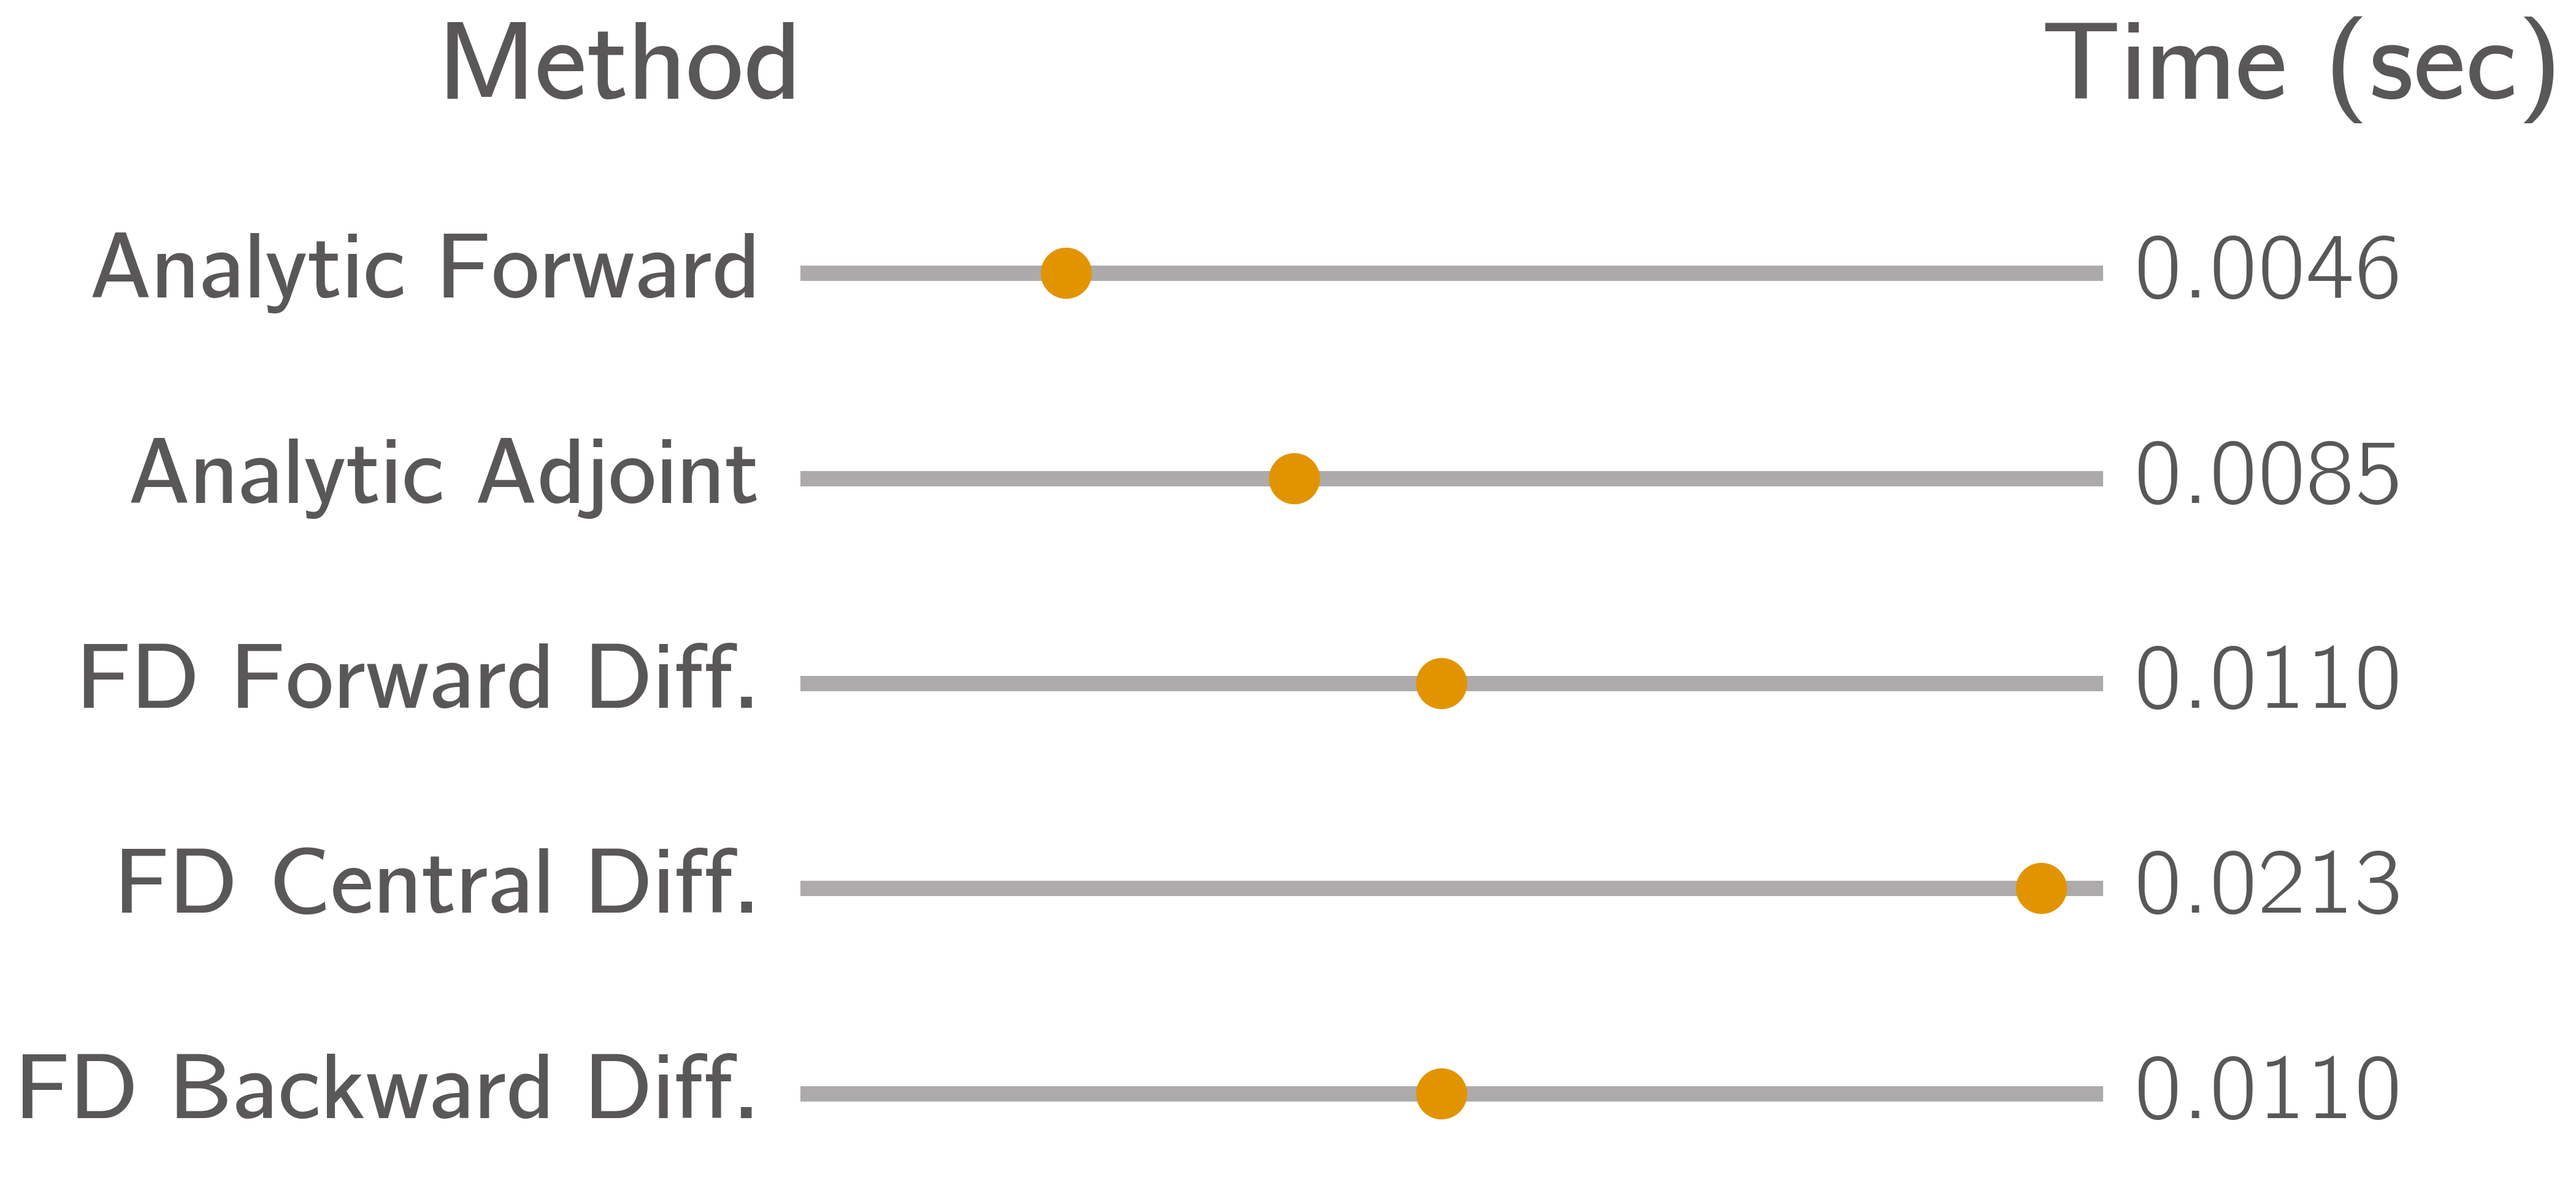
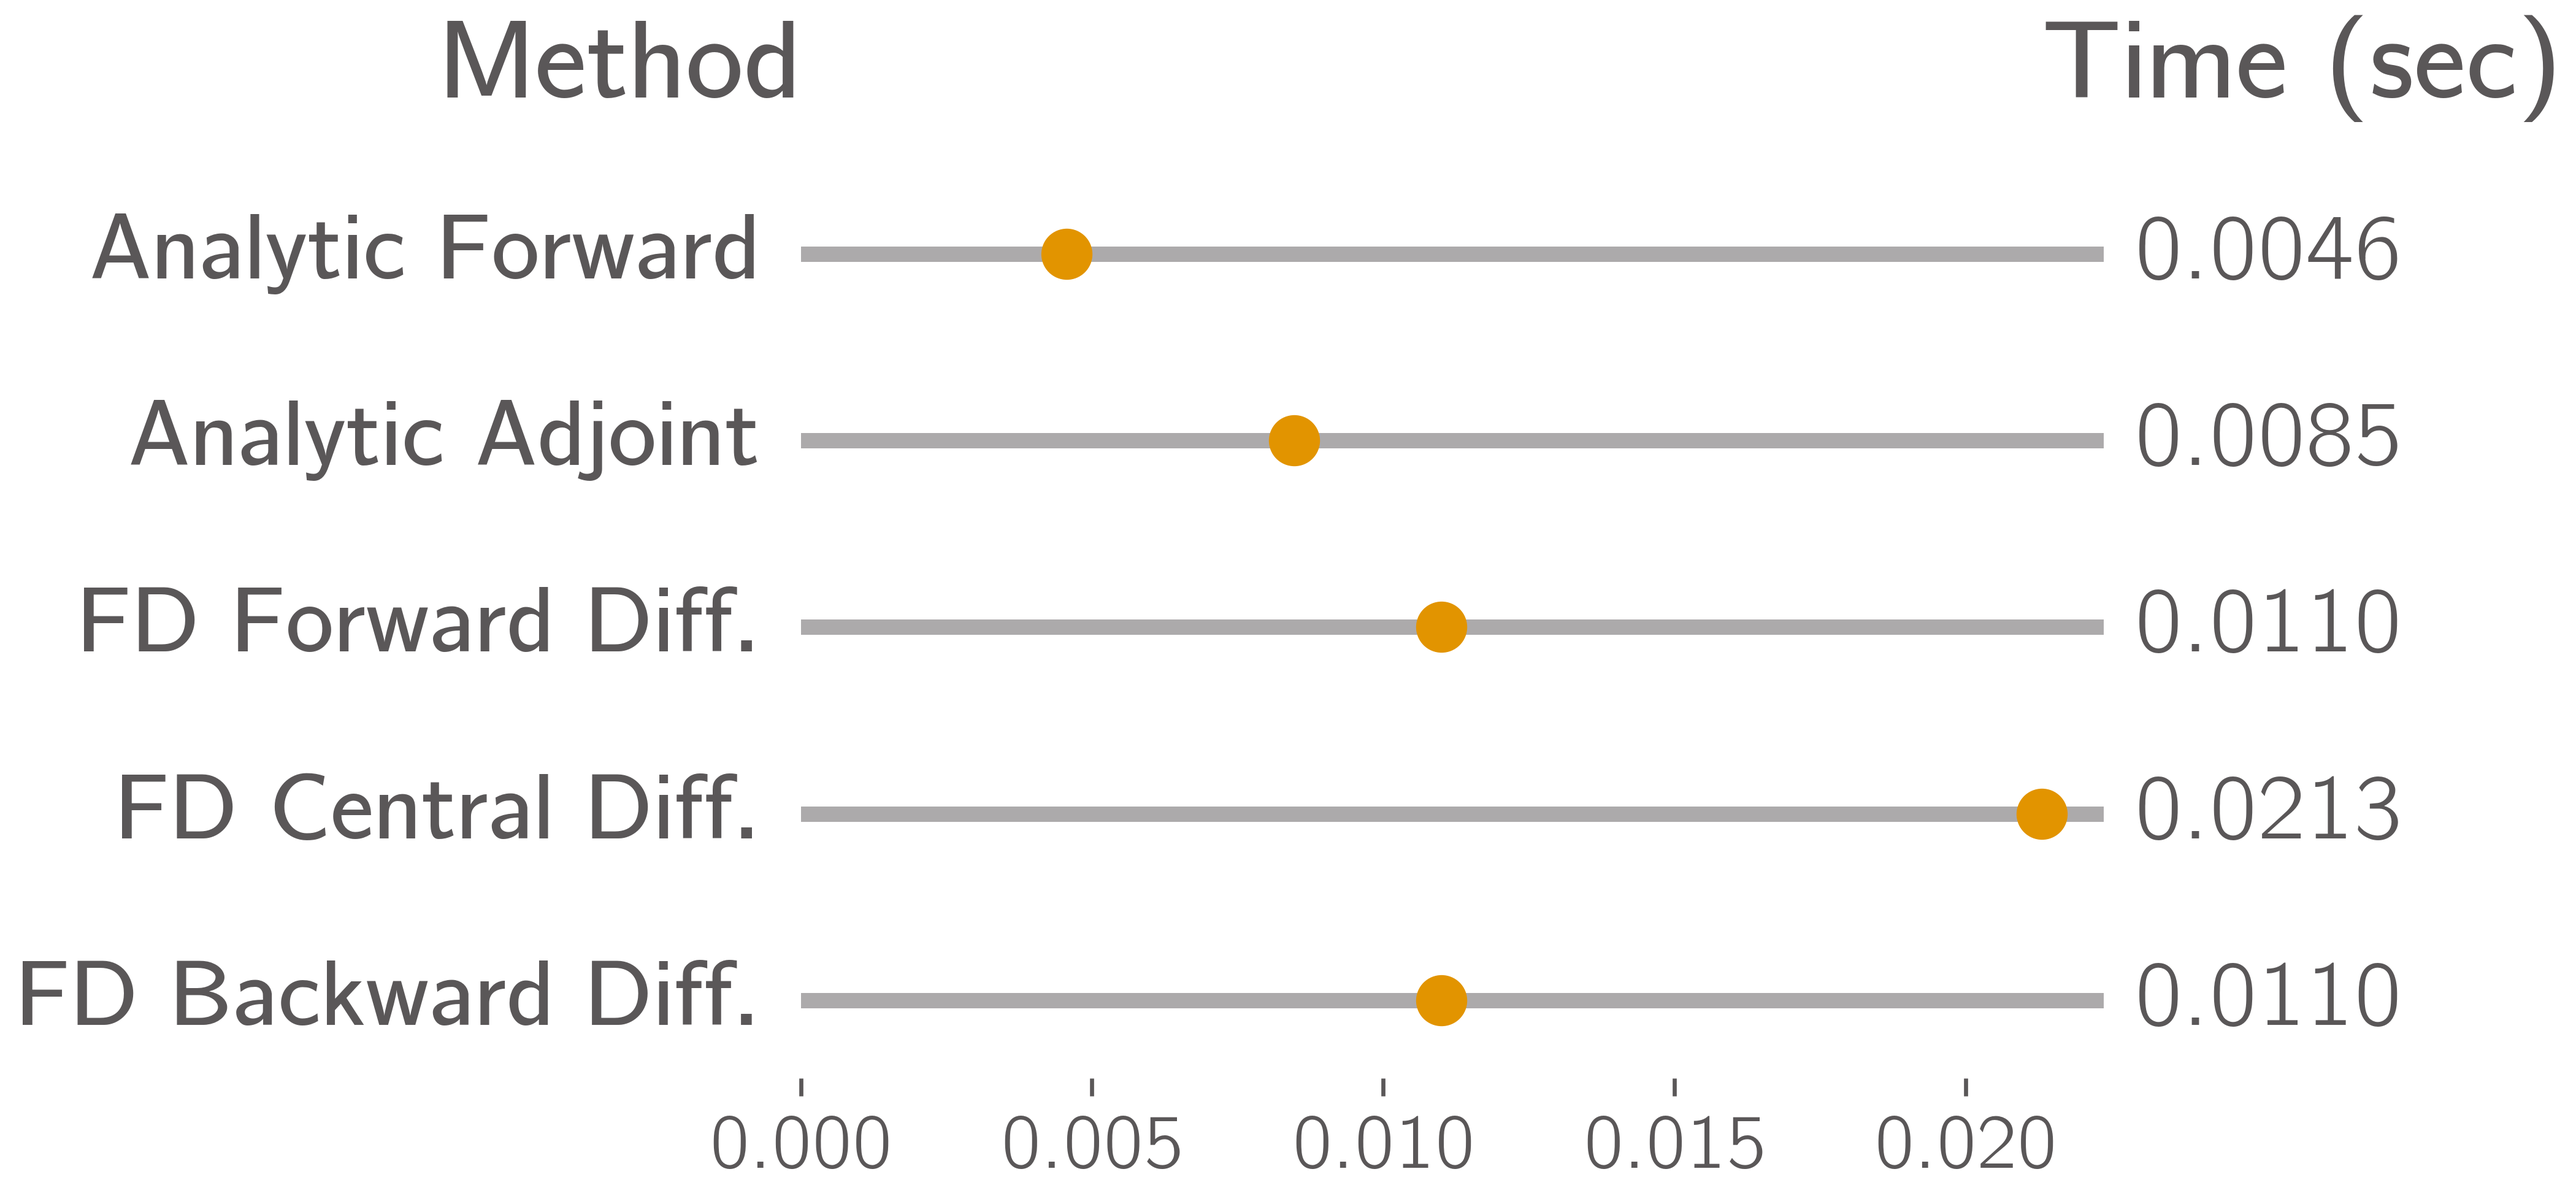
`horiz_bar` bugfixes (#49)
* Fix horiz_bar crash with a single bar

plt.subplots(1, 1) returns a single Axes rather than an ndarray, so
zip(labels, times, axes) raised "TypeError: 'Axes' object is not
iterable" whenever horiz_bar was called with exactly one bar. Multi-bar
calls (num >= 2) were unaffected because subplots returns a 1-D ndarray.

Pass squeeze=False and flatten to axes[:, 0] so axes is always a 1-D
ndarray of Axes. This keeps the loop and the returned value consistent
for any num, matching the docstring ("array of matplotlib Axes, one for
each bar"). The multi-bar code path is byte-identical: axes[:, 0] on the
(num, 1) array yields the same sequence subplots previously returned.

* Enable x-axis ticks on the last horiz_bar bar

The per-subplot tick_params used `bottom=j == num`, but j runs 0..num-1
so the condition was never true and the intended bottom x-axis ticks
were never drawn on any bar. Correct it to `j == num - 1` so the ticks
appear on the bottom (last) bar, as intended.

This changes the rendered output, so the bar_chart reference image is
regenerated to match (matplotlib 3.8.*, numpy<2, the versions CI pins
for the image comparison). The only difference from the previous
reference is the newly drawn bottom ticks.

* Add option to include tick labels in `horiz_bar`

* Update example bar chart

* Bump patch version

---------

diff --git a/niceplots/utils.py b/niceplots/utils.py
@@ -363,7 +363,7 @@ def label_line_ends(ax, lines=None, labels=None, colors=None, x_offset_pts=6, y_
     return annotations
 
 
-def horiz_bar(labels, times, header, nd=1, size=[5, 0.5], color=None):
+def horiz_bar(labels, times, header, nd=1, size=[5, 0.5], color=None, includeBottomTicks=False):
     """Creates a horizontal bar chart to compare positive numbers.
 
     Parameters
@@ -381,6 +381,8 @@ def horiz_bar(labels, times, header, nd=1, size=[5, 0.5], color=None):
         the size of the final figure (iffy results)
     color : str
         hexcode for the color of the scatter points used
+    includeBottomTicks : bool
+        whether to include x-axis ticks (and ticklabels) at the bottom of the chart, by default False.
 
     Returns
     -------
@@ -402,8 +404,11 @@ def horiz_bar(labels, times, header, nd=1, size=[5, 0.5], color=None):
     height = size[1] * num
     t_max = max(times)
 
-    # Create the corresponding number of subplots for each individual timing
-    fig, axes = plt.subplots(num, 1, figsize=[width, height])
+    # Create the corresponding number of subplots for each individual timing.
+    # squeeze=False keeps axes as a 2-D array even when num == 1; flattening to a
+    # 1-D array of Axes below makes the loop and return value consistent for any num.
+    fig, axes = plt.subplots(num, 1, figsize=[width, height], squeeze=False, sharex=True)
+    axes = axes[:, 0]
 
     # Loop over each time and get the max number of digits
     t_max_digits = 0
@@ -421,15 +426,16 @@ def horiz_bar(labels, times, header, nd=1, size=[5, 0.5], color=None):
         # Set chart properties
         ax.set_ylim(0.99, 1.01)
         ax.set_xlim(0, t_max * 1.05)
+        labelBottom = j == num - 1 and includeBottomTicks  # only show x-axis ticks on the bottom (last) bar
         ax.tick_params(
             axis="both",  # changes apply to the x-axis
             which="both",  # both major and minor ticks are affected
             left=False,  # ticks along the bottom edge are off
             labelleft=False,
             labelright=False,
-            labelbottom=False,
+            labelbottom=labelBottom,
             right=False,  # ticks along the top edge are off
-            bottom=j == num,
+            bottom=labelBottom,  # only show x-axis ticks on the bottom (last) bar
             top=False,
         )
         ax.spines["top"].set_visible(False)

diff --git a/examples/plot_bar_chart.py b/examples/plot_bar_chart.py
@@ -20,5 +20,5 @@ times = [0.00456, 0.00847, 0.0110, 0.0213, 0.011]
 nd = 4
 
 with plt.style.context(niceplots.get_style()):
-    fig, axes = niceplots.horiz_bar(labels, times, header, nd=nd, size=[7, 0.65])
+    fig, axes = niceplots.horiz_bar(labels, times, header, nd=nd, size=[7, 0.65], includeBottomTicks=True)
     niceplots.save_figs(fig, "bar_chart", ["png", "svg"])

diff --git a/niceplots/__init__.py b/niceplots/__init__.py
@@ -1,7 +1,7 @@
 import os
 from matplotlib import font_manager
 
-__version__ = "2.6.2"
+__version__ = "2.6.3"
 
 
 def addFonts():
